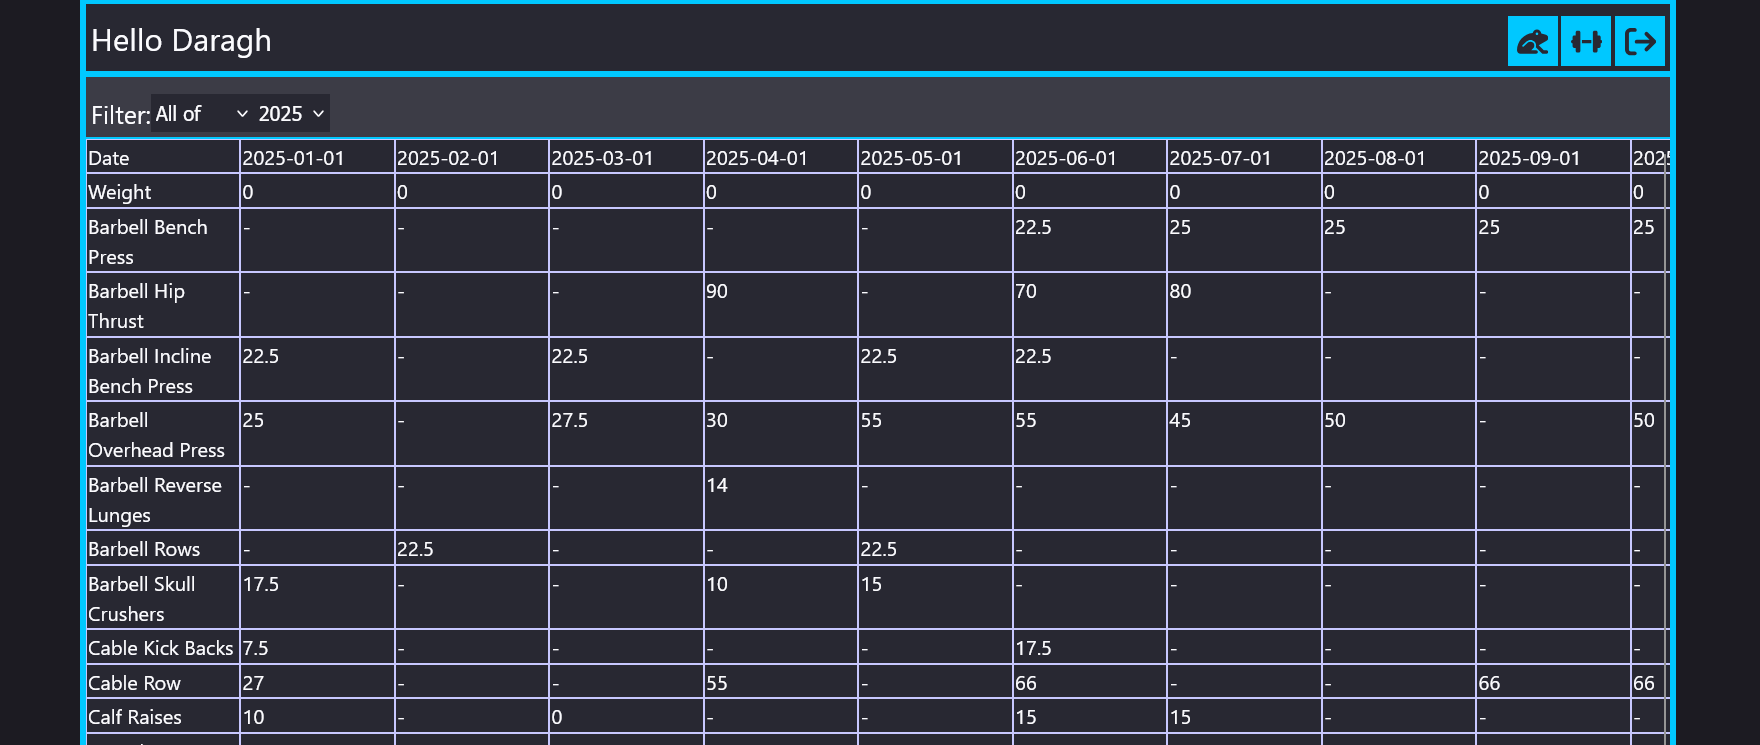
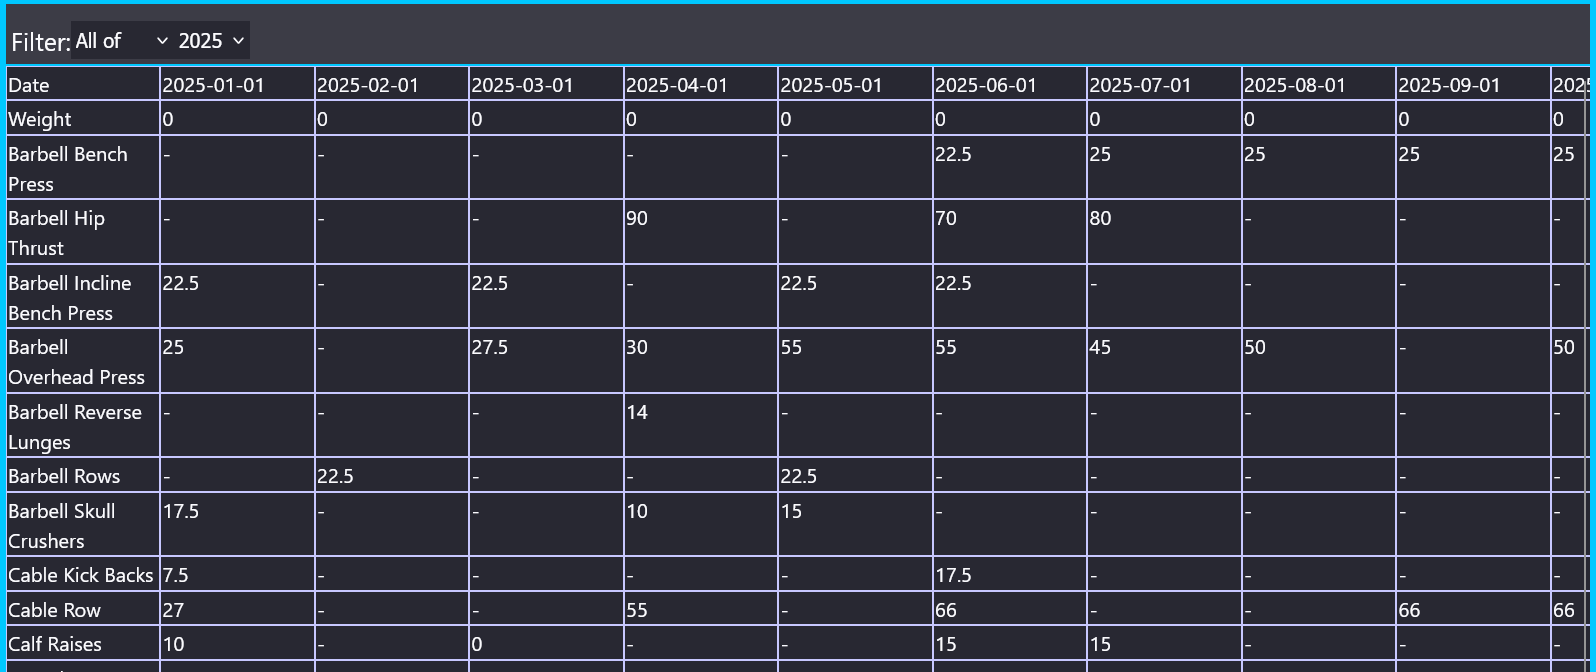
No userin Screen Update

Changed region(s): [[0.0, 0.0, 1.0, 1.0], [0.8289, 0.4375, 0.8904, 0.5]]

diff --git a/tracker-app/src/App.tsx b/tracker-app/src/App.tsx
@@ -11,8 +11,11 @@ import { getExercises, getSessionExerciseBySession, getSessions } from './Helper
 import { getUserAttributes, logout } from './Helpers/amplify';
 
 
-import progPng from "./assets/progress.png"
-import seshPng from "./assets/sessions.png"
+import dtProgPng from "./assets/progress.png"
+import dtSeshPng from "./assets/sessions.png"
+import mobSeshPng from "./assets/mobileSesh.png"
+import mobProgPng from "./assets/mobileProg.png"
+
 import Loading from './Components/Elements/Loading';
 import HelpWindow from './Components/Elements/helpWindow';
 
@@ -111,15 +114,22 @@ export default function App() {
         />
       ) : (
         <div className='hello'>
-          Welcome to My Gym tracking App, A web app to simplify tracking sessions and progress. Sign in to get started and keep an eye out for new features and updates like:
+          Welcome to My Gym tracking App, A web app to simplify tracking sessions and progress. Sign in to get started
+          <br/>
+          <div className='imgs'>
+            <div>Track your sessions</div>
+            <img src = {dtSeshPng} className='dt_img'/>
+            <img src = {mobSeshPng} className='mob_img'/>
+            
+            <div>Review your Progress your sessions</div>
+            <img src = {dtProgPng} className='dt_img'/>
+            <img src = {mobProgPng} className='mob_img'/>
+          </div>
+
+          And keep an eye out for new features and updates like:
           <div>- Cardio tracking</div>
           <div>- Helpful Graphs</div>
           <div>- Trainer / client features</div>
-
-          <div className='imgs'>
-            <img src = {seshPng}/>
-            <img src = {progPng}/>
-          </div>
         </div>
       )}
       {pageState=="loading" && <Loading message={'Loading User data'}/>}

diff --git a/tracker-app/src/CSS/App.css b/tracker-app/src/CSS/App.css
@@ -42,10 +42,17 @@
     display: flex;
     flex-direction: column;
     justify-content: center;
+    text-align: center;
+    font-weight: bold;
   }
-  img{
+  .dt_img{
     width: 100%;
     margin-top: 15px;
+    border-bottom: 5px solid rgb(0, 200, 255);
+  }
+
+  .mob_img{
+    display: none;
   }
 }
 
@@ -79,4 +86,27 @@
     border: solid 1px rgb(0, 200, 255);
     color: rgb(243, 244, 245);
   }
+
+
+  .hello {
+    background-color: rgb(60, 60, 70);
+    padding: 10px;
+    font-size: 20px;
+    overflow-y: auto;
+    height: 100%;        /* keep this */
+    box-sizing: border-box;  /* padding doesn't cause overflow */
+  }
+
+  .imgs{
+    display: flex;
+    flex-direction: column;
+    justify-content: center;
+    text-align: center;
+    font-weight: bold;
+  }
+
+  .dt_img{
+    display: none;
+  }
 }
+
